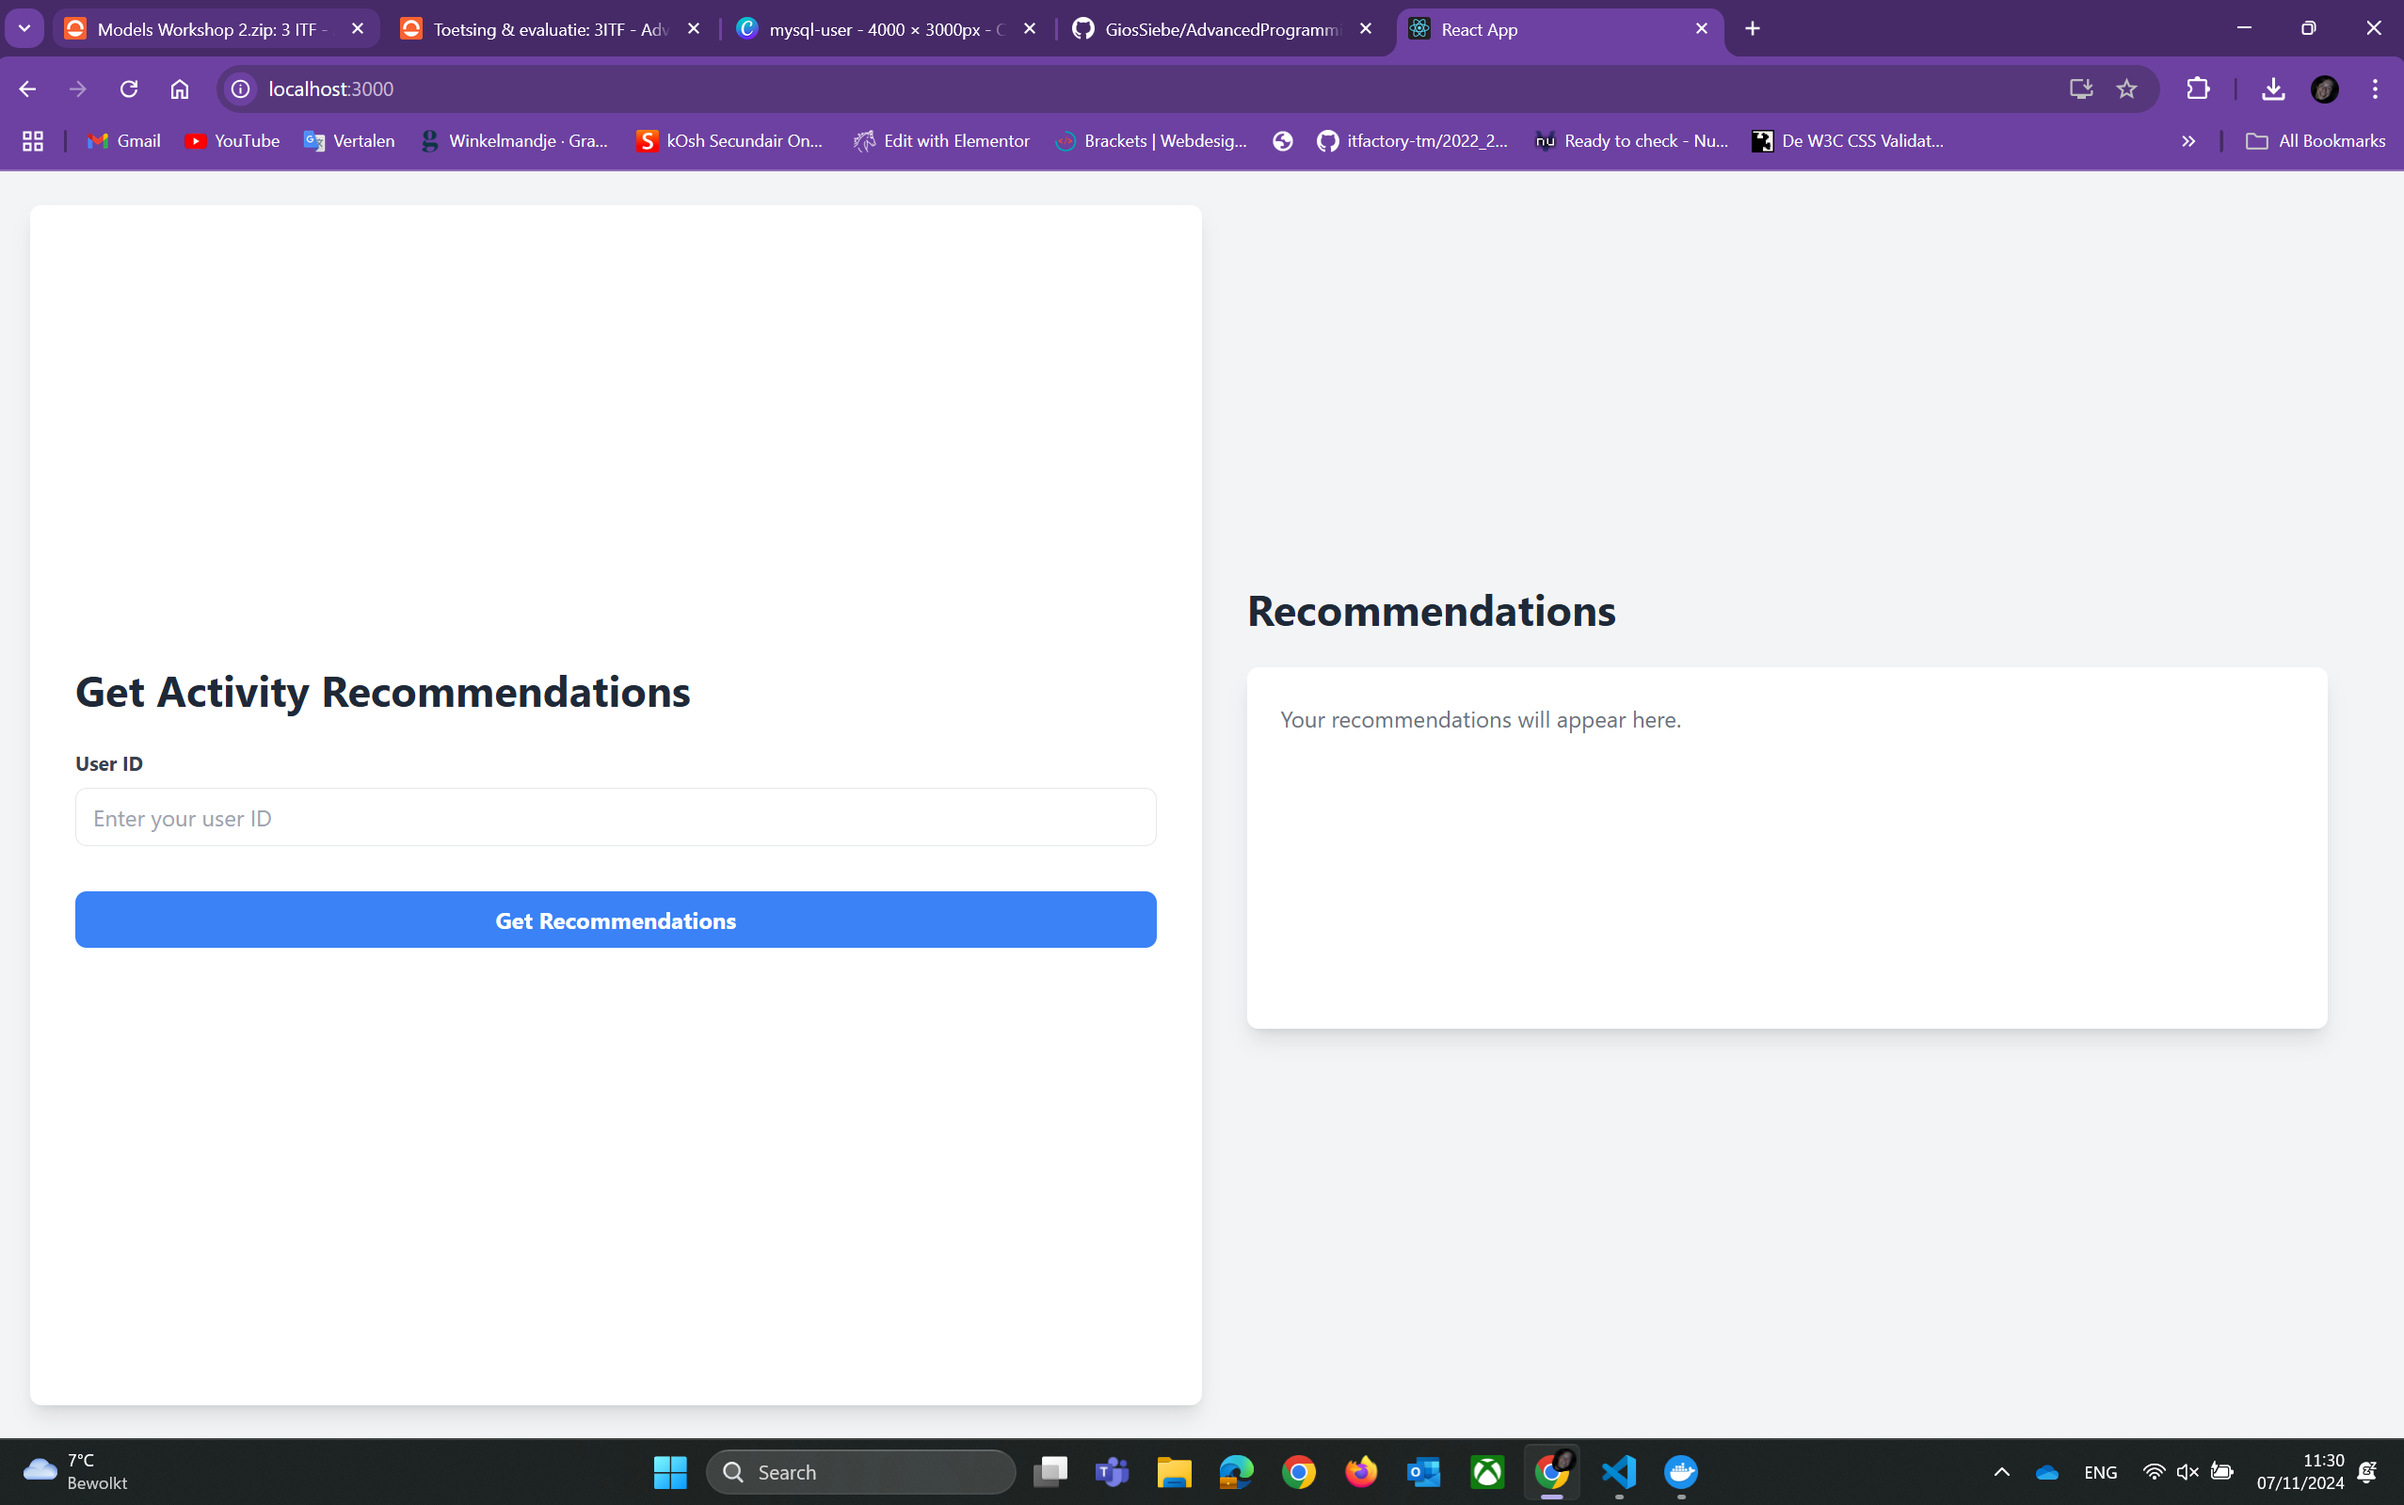
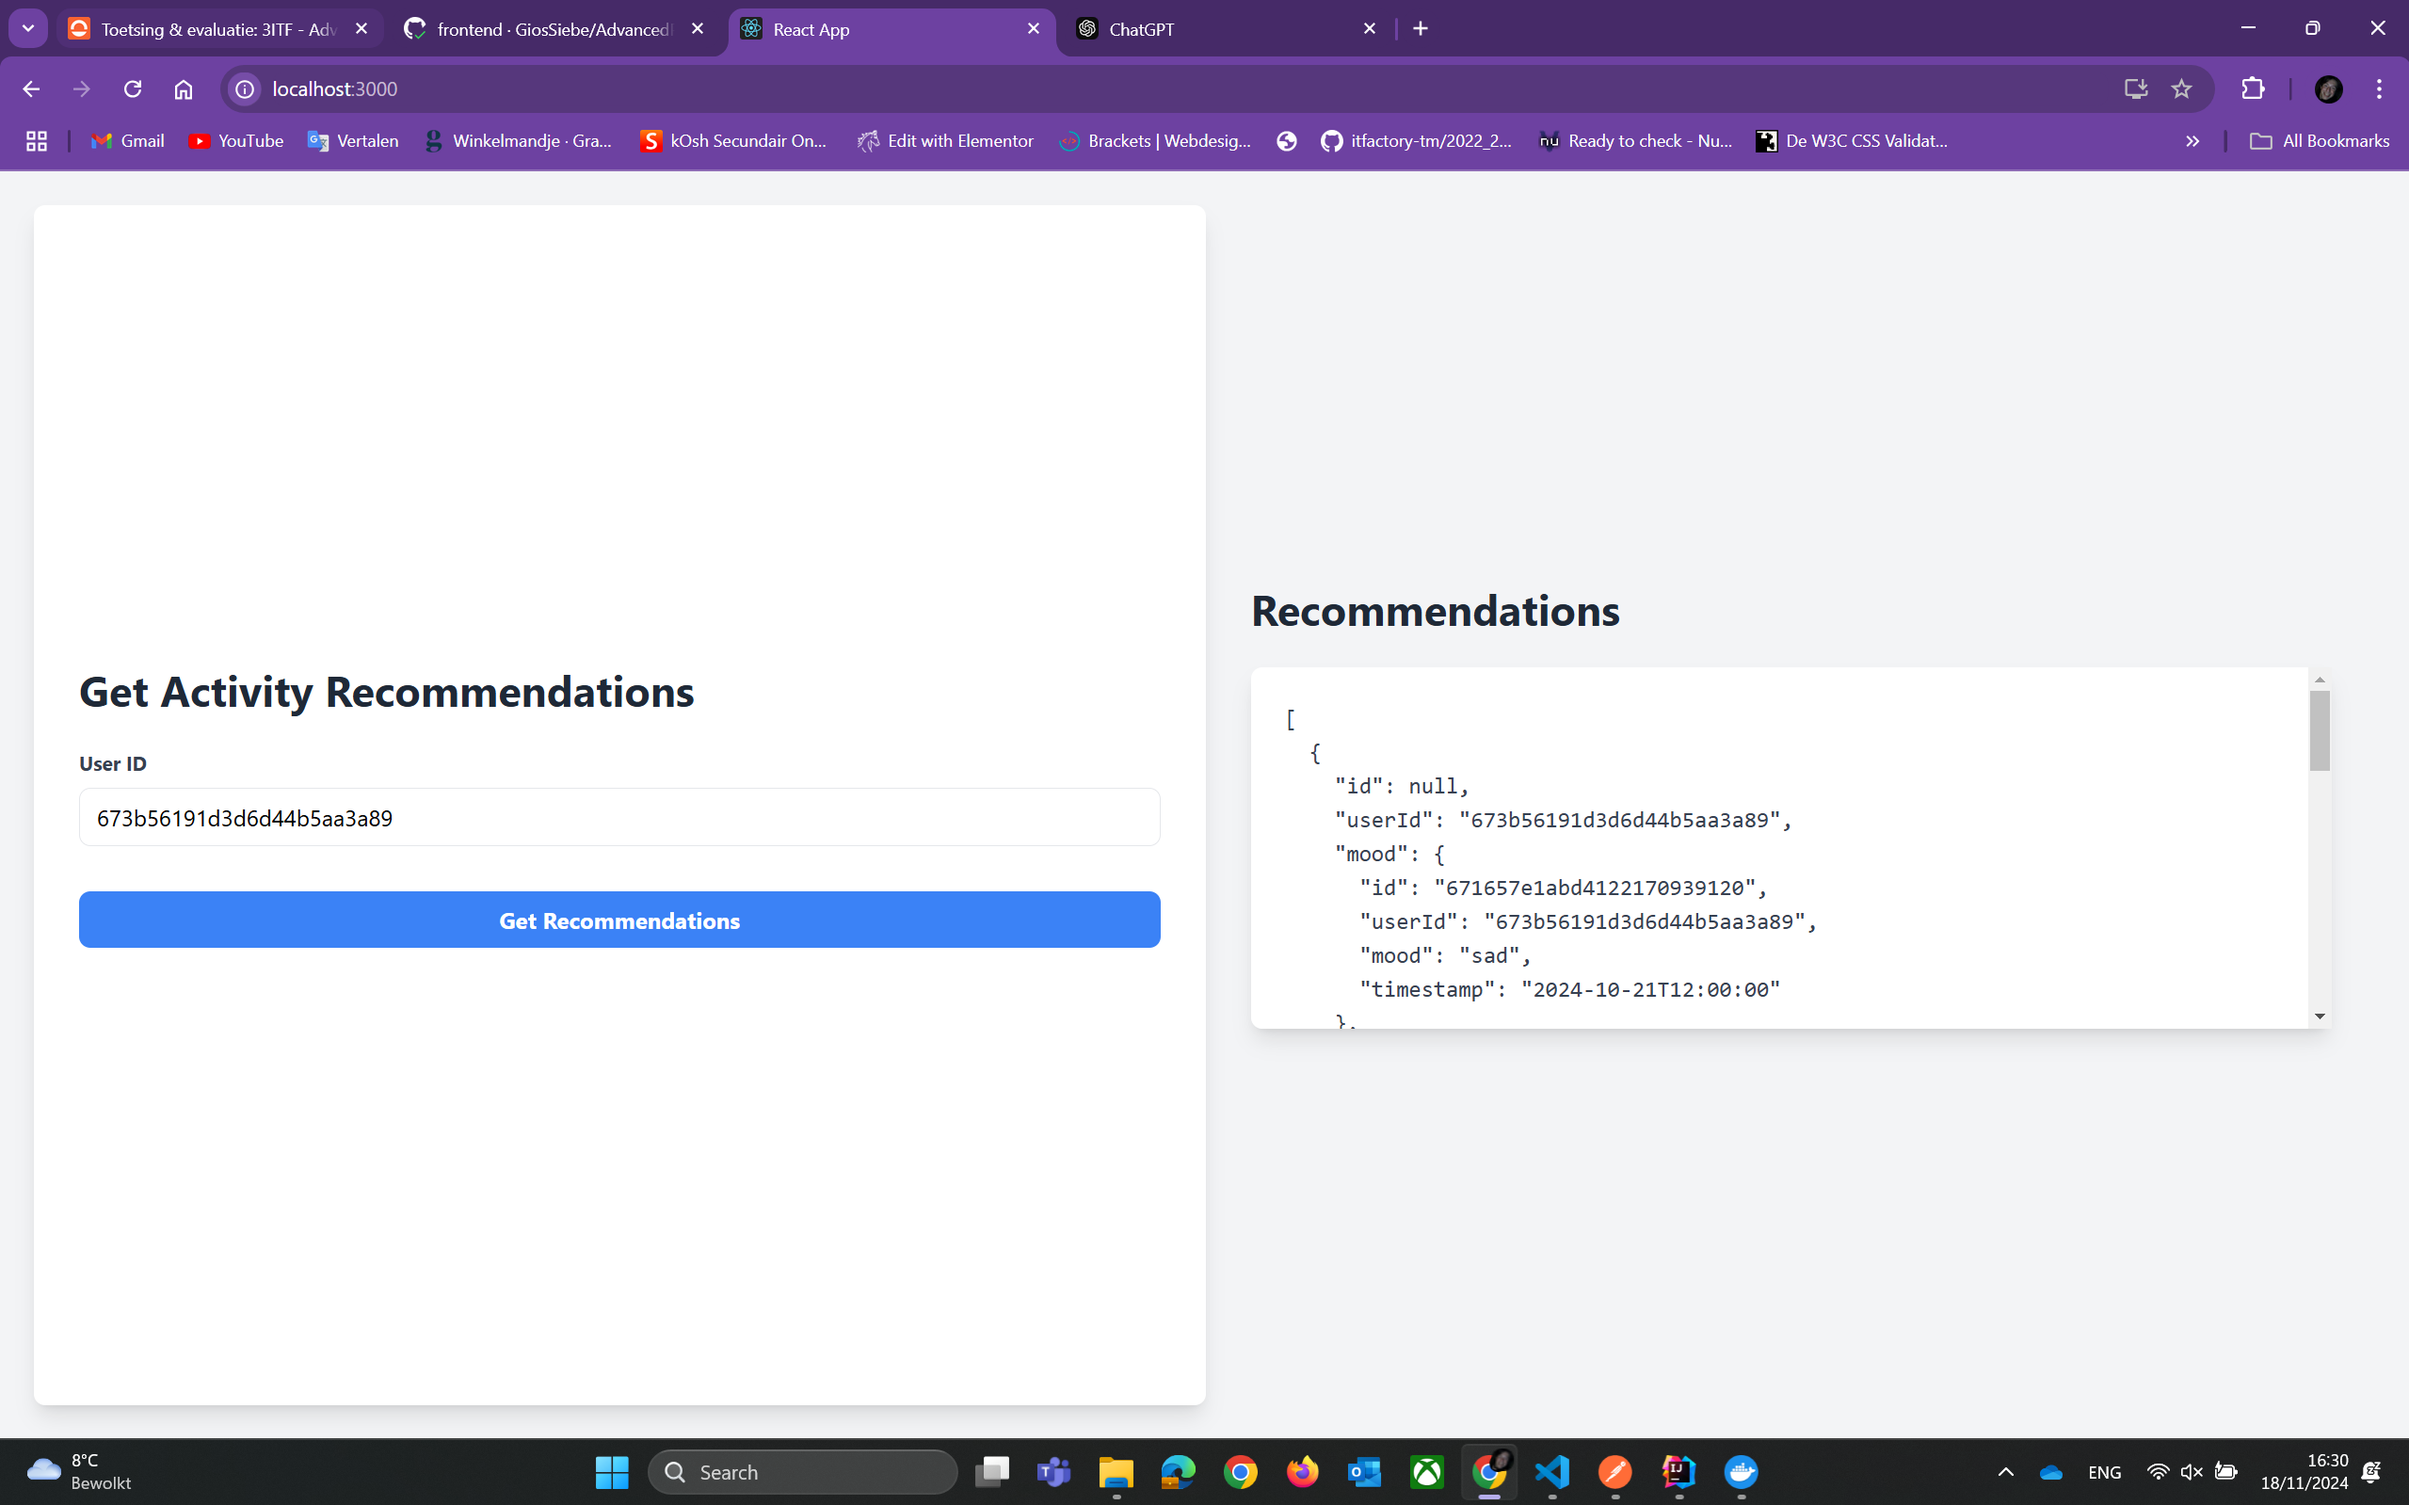
documentation

diff --git a/readme.md b/readme.md
@@ -105,7 +105,7 @@ All API endpoints were tested using Postman. Below are some example requests dem
 
 ## Additional Features
 
-- **Frontend Application**: Developed a user-friendly interface that allows users to manage their moods and activities, seamlessly interacting with the backend. Looks cool but API call isn't working. Runs in container through github actions. (not fully working)
+- **Frontend Application**: Developed a user-friendly interface that allows users to manage their moods and activities, seamlessly interacting with the backend. Looks cool and API call is working with CORS and runs in container through github actions. Output is still in json format, but can easily be something else.
 - **Kubernetes**: Kubernetes .yml files to run the stack in Kubernetes. Runs in Kuberentes, but not fully functioning.
 
 ## Testing
